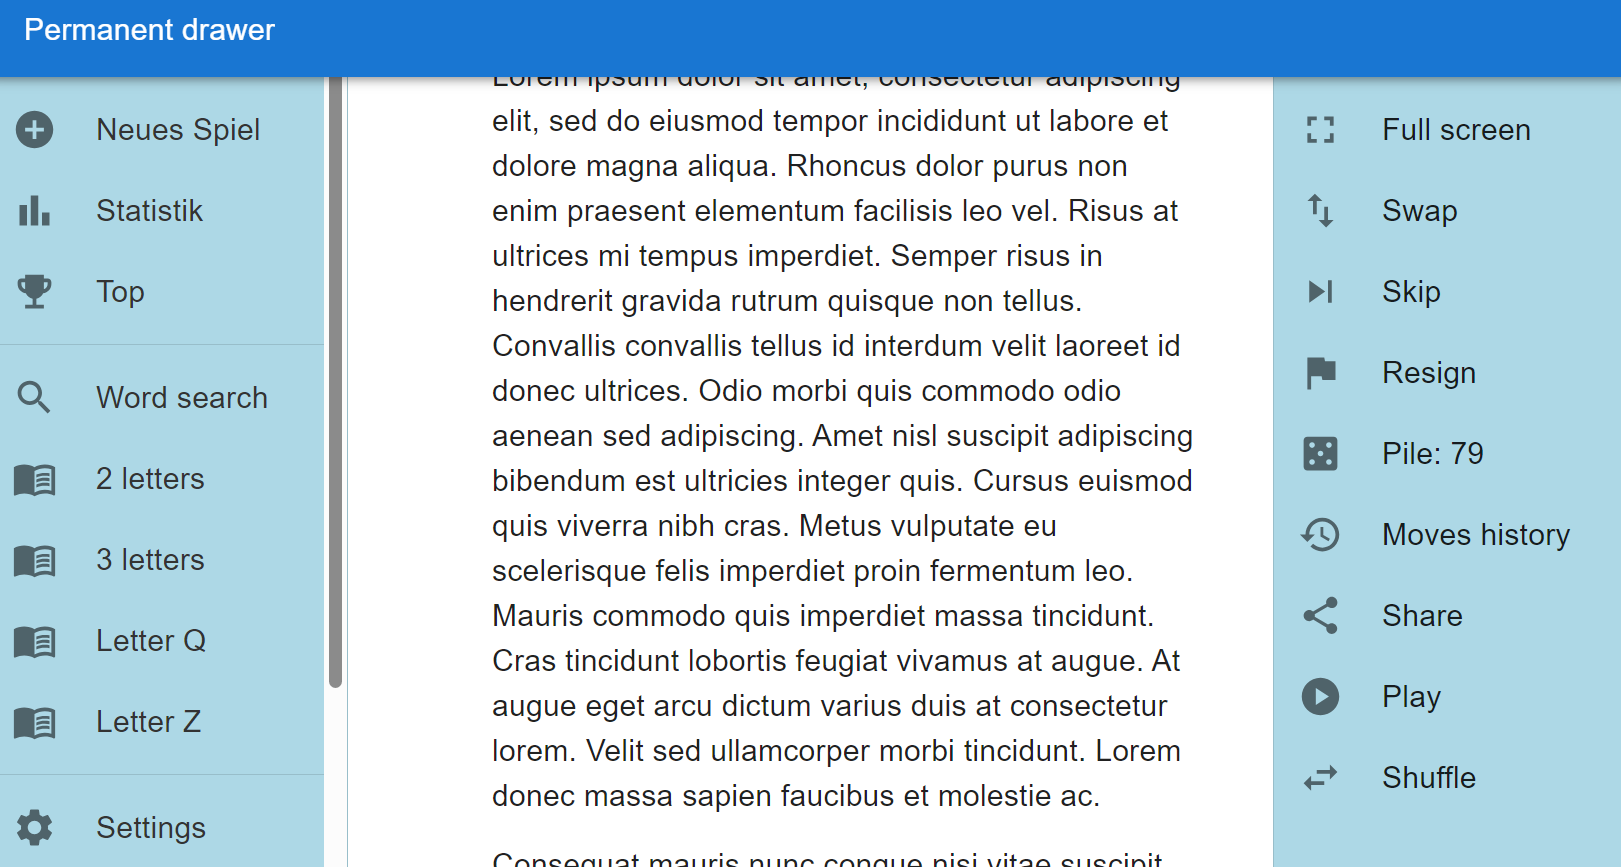
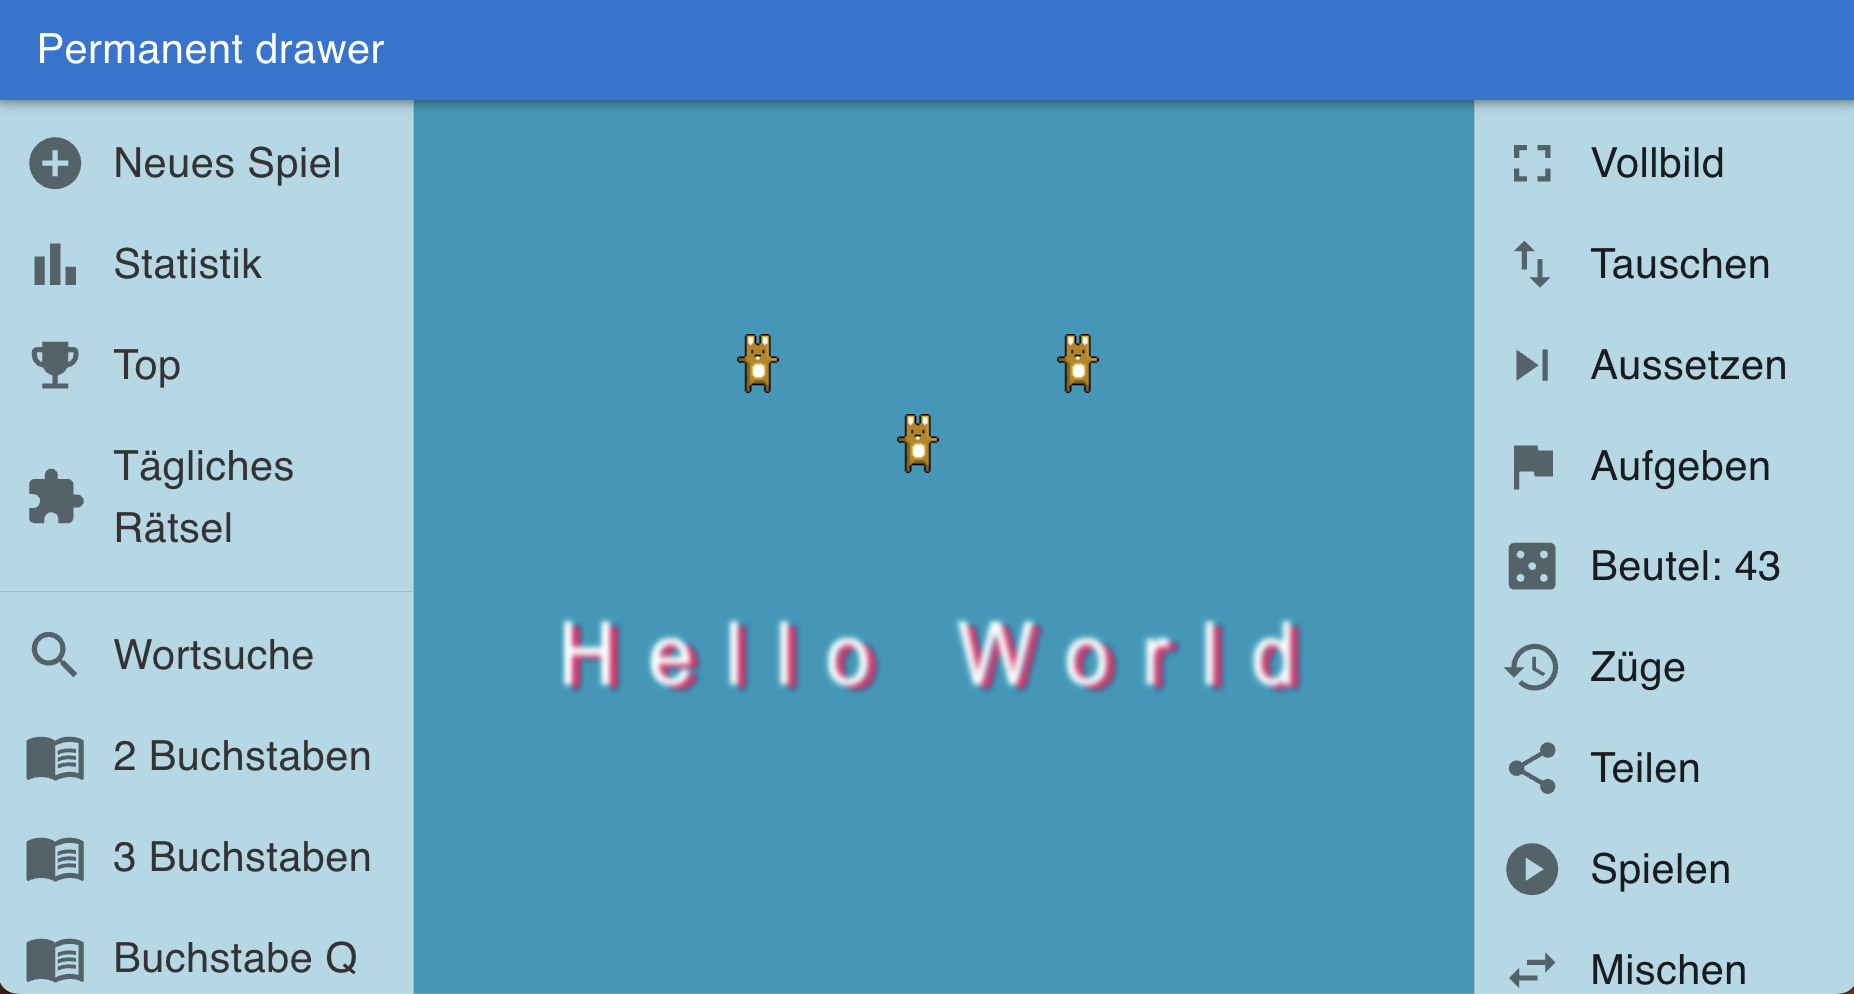
Import from Pixi legacy

diff --git a/permanent-drawer/src/components/MyComponent.jsx b/permanent-drawer/src/components/MyComponent.jsx
@@ -1,24 +1,35 @@
-import { BlurFilter } from "pixi.js";
+import { BlurFilter, TextStyle } from "pixi.js-legacy";
 import { Stage, Container, Sprite, Text } from "@pixi/react";
 import { useMemo } from "react";
 
 export const MyComponent = () => {
-  const blurFilter = useMemo(() => new BlurFilter(4), []);
+  const blurFilter = useMemo(() => new BlurFilter(2), []);
+  const bunnyUrl = "https://pixijs.io/pixi-react/img/bunny.png";
 
   return (
-    <Stage options={{ background: 0xffffff }}>
-      <Sprite
-        image="https://pixijs.io/pixi-react/img/bunny.png"
-        x={400}
-        y={270}
-        anchor={{ x: 0.5, y: 0.5 }}
-      />
+    <Stage x={800} y={600} options={{ background: 0x1099bb }}>
+      <Sprite image={bunnyUrl} x={300} y={150} />
+      <Sprite image={bunnyUrl} x={500} y={150} />
+      <Sprite image={bunnyUrl} x={400} y={200} />
 
-      <Container x={400} y={330}>
+      <Container x={200} y={200}>
         <Text
           text="Hello World"
-          anchor={{ x: 0.5, y: 0.5 }}
+          anchor={0.5}
+          x={220}
+          y={150}
           filters={[blurFilter]}
+          style={
+            new TextStyle({
+              align: "center",
+              fill: "0xffffff",
+              fontSize: 50,
+              letterSpacing: 20,
+              dropShadow: true,
+              dropShadowColor: "#E72264",
+              dropShadowDistance: 6,
+            })
+          }
         />
       </Container>
     </Stage>

diff --git a/permanent-drawer/src/pages/Main.jsx b/permanent-drawer/src/pages/Main.jsx
@@ -1,7 +1,6 @@
 "use client";
 
 import Box from "@mui/material/Box";
-import Typography from "@mui/material/Typography";
 import MainDrawer from "../components/MainDrawer";
 import { MyComponent } from "../components/MyComponent";
 
